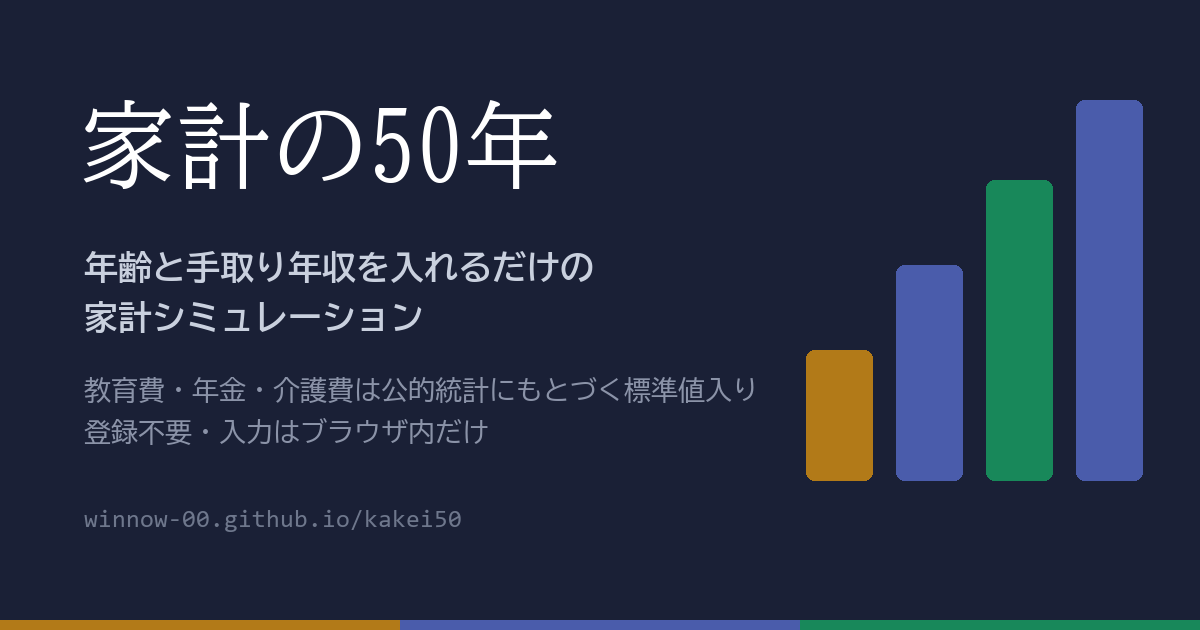
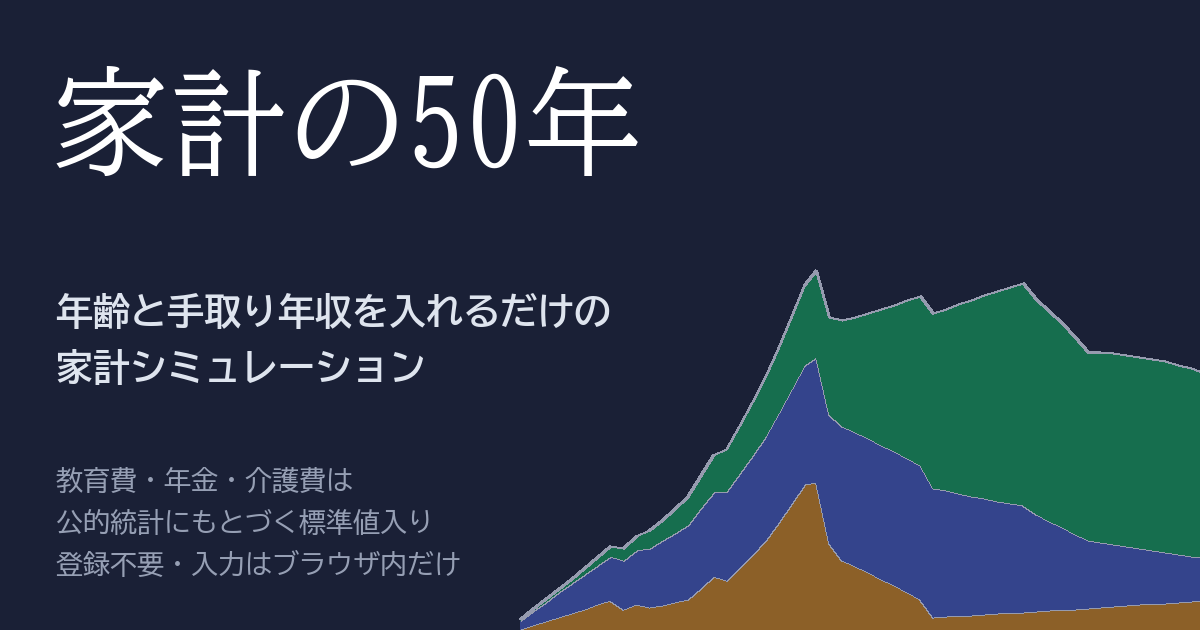
OGP画像を実際の資産推移グラフに差し替え
抽象的な棒グラフより、本体と同じ三層エリアチャートの方が
中身が伝わるため。飾りではなく simulate() の出力そのもの
（40歳・夫婦・子1人・持ち家・63歳まで就労）を描いている。

- 描画データは tools/ogp_band.json に書き出し済み
- 山型（積み上がって取り崩しで下がる）になる世帯を選んだ。
  一括の退職金がある設定だと角が立つため外している
- URL文字と下端の色帯は外し、グラフを右下へ断ち切る構図に

diff --git a/tools/make_ogp.py b/tools/make_ogp.py
@@ -4,49 +4,63 @@ SNS用のOGP画像（ogp.png）を生成する。
 
     python tools/make_ogp.py
 
-Pillow と Windows 標準の BIZ UD フォントを使う。
-ブラウザを経由しないので、文言を変えたいときはここを直して実行するだけ。
-出力は 1200x630。SNSのカードはこの比率が標準。
+右側のグラフは飾りではなく、本体と同じ計算式で出した実際の資産推移
+（40歳・夫婦・子1人・持ち家・63歳まで就労のケース）。数値は tools/ogp_band.json に
+書き出してある。作り直す場合は本体の simulate() から再出力する。
+
+Pillow と Windows 標準の BIZ UD フォントを使う。出力は 1200x630。
 """
 from PIL import Image, ImageDraw, ImageFont
-import os
+import json, os
 
 W, H = 1200, 630
-BG    = (26, 32, 54)      # 濃紺（faviconと同じ）
+BG    = (26, 32, 54)
 WHITE = (255, 255, 255)
-SUB   = (201, 208, 222)
-MUTE  = (139, 147, 168)
-DIM   = (110, 119, 140)
-CASH  = (178, 122, 24)    # 現金
-PRIN  = (74, 92, 171)     # 投資元本
-GAIN  = (24, 136, 90)     # 運用益
+SUB   = (222, 228, 238)
+MUTE  = (150, 159, 180)
+CASH  = (140, 96, 40)     # 現金
+PRIN  = (52, 68, 140)     # 投資元本
+GAIN  = (22, 110, 78)     # 運用益
+EDGE  = (150, 155, 175)   # 層の境目
 
+HERE = os.path.dirname(os.path.abspath(__file__))
+ROOT = os.path.dirname(HERE)
 F = "C:/Windows/Fonts/"
+
 img = Image.new("RGB", (W, H), BG)
 d = ImageDraw.Draw(img)
 
-mincho = ImageFont.truetype(F + "BIZ-UDMinchoM.ttc", 96)
-goth_b = ImageFont.truetype(F + "BIZ-UDGothicB.ttc", 34)
+# ---- 右側：実データの三層エリアチャート（右端と下端は断ち切り）----
+band = json.load(open(os.path.join(HERE, "ogp_band.json"), encoding="utf-8"))
+n = len(band)
+X0, X1 = 520, W + 30          # 右へはみ出させる
+Y0, Y1 = 270, H + 20          # 下へはみ出させる
+top = max(b[0] + b[1] + b[2] for b in band)
+
+def px(i):  return X0 + (X1 - X0) * i / (n - 1)
+def py(v):  return Y1 - (Y1 - Y0) * v / top
+
+base = [0.0] * n
+for layer, color in ((0, CASH), (1, PRIN), (2, GAIN)):
+    upper = [base[i] + band[i][layer] for i in range(n)]
+    poly  = [(px(i), py(upper[i])) for i in range(n)] + \
+            [(px(i), py(base[i]))  for i in range(n - 1, -1, -1)]
+    d.polygon(poly, fill=color)
+    d.line([(px(i), py(upper[i])) for i in range(n)], fill=EDGE, width=3, joint="curve")
+    base = upper
+
+# ---- 左側：文字 ----
+mincho = ImageFont.truetype(F + "BIZ-UDMinchoM.ttc", 118)
+goth_b = ImageFont.truetype(F + "BIZ-UDGothicB.ttc", 37)
 goth_r = ImageFont.truetype(F + "BIZ-UDGothicR.ttc", 27)
-mono   = ImageFont.truetype(F + "consola.ttf", 25)
 
-# 下端の3色帯（本体グラフの3層と同じ色）
-for i, c in enumerate([CASH, PRIN, GAIN]):
-    d.rectangle([i * W // 3, H - 10, (i + 1) * W // 3, H], fill=c)
+d.text((52, 62),  "家計の50年", font=mincho, fill=WHITE)
+d.text((56, 292), "年齢と手取り年収を入れるだけの", font=goth_b, fill=SUB)
+d.text((56, 348), "家計シミュレーション", font=goth_b, fill=SUB)
+d.text((56, 466), "教育費・年金・介護費は",           font=goth_r, fill=MUTE)
+d.text((56, 508), "公的統計にもとづく標準値入り",     font=goth_r, fill=MUTE)
+d.text((56, 550), "登録不要・入力はブラウザ内だけ",   font=goth_r, fill=MUTE)
 
-# 右側：資産が積み上がる棒。上端は 380px までに抑える（切れないように）
-x = 806
-for h, c in [(130, CASH), (215, PRIN), (300, GAIN), (380, PRIN)]:
-    d.rounded_rectangle([x, H - 150 - h, x + 66, H - 150], radius=8, fill=c)
-    x += 90
-
-d.text((80, 96),  "家計の50年", font=mincho, fill=WHITE)
-d.text((84, 250), "年齢と手取り年収を入れるだけの", font=goth_b, fill=SUB)
-d.text((84, 300), "家計シミュレーション", font=goth_b, fill=SUB)
-d.text((84, 376), "教育費・年金・介護費は公的統計にもとづく標準値入り", font=goth_r, fill=MUTE)
-d.text((84, 418), "登録不要・入力はブラウザ内だけ", font=goth_r, fill=MUTE)
-d.text((84, 508), "winnow-00.github.io/kakei50", font=mono, fill=DIM)
-
-out = os.path.join(os.path.dirname(os.path.dirname(os.path.abspath(__file__))), "ogp.png")
+out = os.path.join(ROOT, "ogp.png")
 img.save(out, "PNG", optimize=True)
 print("saved:", out, img.size)
